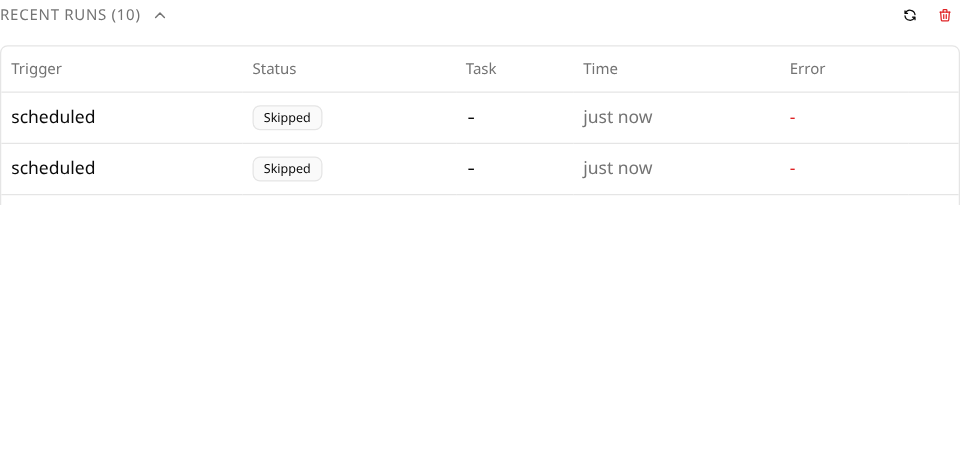
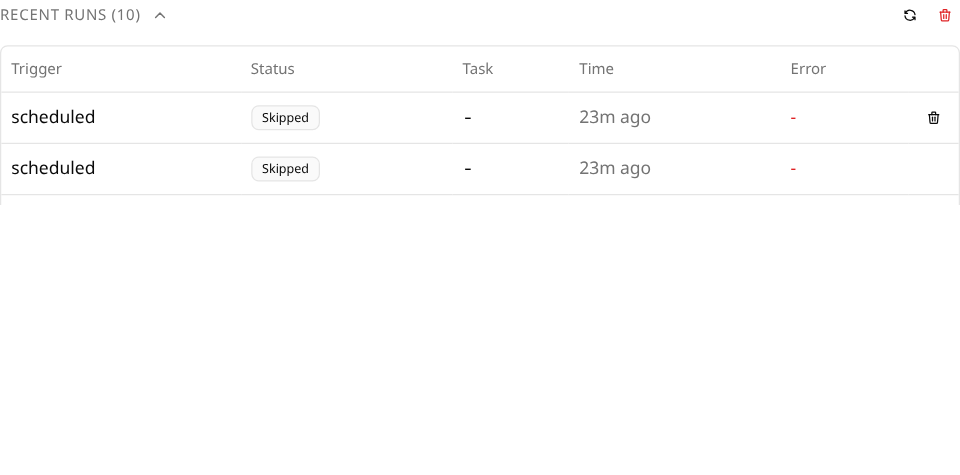
chore: replace PR screenshots — fix hover state, better collapsed crop

diff --git a/.pr-screenshots/pr-body.md b/.pr-screenshots/pr-body.md
@@ -1,0 +1,57 @@
+Failed automation runs were accumulating and blocking the scheduler's `max_concurrent_runs` cap; this adds per-row and bulk deletion so the history can be cleared without touching the automation itself.
+
+## Important Changes
+
+- **Backend:** two new WS actions `automation.run.delete` / `automation.runs.delete_all`; for runs with a `task_id` the service routes through `task.Service.DeleteTask` first (idempotent against `ErrTaskNotFound` so stale/orphaned rows are always clearable). A `TaskDeleter` interface is injected via `SetTaskDeleter` in `backendapp` — no import cycle.
+- **Frontend:** per-row trash button (`opacity-0`, revealed on row hover, `stopPropagation` so it doesn't navigate to the task); delete-all button in the section header wrapped in an `AlertDialog` confirmation showing the run count. Optimistic store updates; `toast.error` on failure with list revert.
+- **E2E seed endpoints:** `POST /api/v1/e2e/automations` and `POST /api/v1/e2e/automation-runs` under the existing `KANDEV_MOCK_AGENT`-gated `/api/v1/e2e` group — HTTP so tests work on Node 20.
+
+## Validation
+
+```
+# Backend unit + service tests (includes regression guard)
+cd apps/backend && go test ./internal/automation/... -v
+
+# Backend lint (changed packages only)
+golangci-lint run ./internal/automation/... ./internal/backendapp/... ./pkg/websocket/...
+
+# Frontend typecheck + lint
+cd apps && pnpm --filter @kandev/web typecheck
+pnpm --filter @kandev/web lint
+
+# Playwright E2E (expand → delete one → confirm delete-all → empty state)
+cd apps/web && KANDEV_E2E_MOCK=true pnpm e2e --project=chromium -g "delete individual and all runs"
+```
+
+`TestDeleteAllRuns_AutomationSurvives` issues real `DELETE FROM tasks` SQL against the shared in-memory DB to verify no SQL trigger or `ON DELETE CASCADE` regression can delete the parent automation. Event-handler side effects are not covered (no orchestrator in that test).
+
+Pre-existing flake: `TestProcessRunnerCapturesOutput` in `internal/agentctl/server/process` fails independently of this change (confirmed stash-and-rerun).
+
+## Screenshots
+
+**Collapsed** — header shows only the refresh icon (old behaviour):
+
+![collapsed](.pr-screenshots/1-collapsed.png)
+
+**Expanded** — refresh + red trash icon in header; 6th column added for per-row delete:
+
+![expanded](.pr-screenshots/2-expanded.png)
+
+**Row hover** — per-row trash button becomes visible on hover:
+
+![row hover](.pr-screenshots/3-row-hover.png)
+
+**Delete-all confirmation dialog** — shows run count, requires explicit confirm:
+
+![dialog](.pr-screenshots/4-confirm-dialog.png)
+
+## Possible Improvements
+
+Low risk for non-running runs; deleting a `task_created` run stops the associated task — acceptable given the feature intent is cleanup of stuck/failed history.
+
+## Checklist
+
+- [ ] I have performed a self-review of my code.
+- [ ] I have manually tested my changes and they work as expected.
+- [ ] My changes have tests that cover the new functionality and edge cases.
+- [ ] If my change touches UI files (`apps/web/`), I have added or updated Playwright e2e tests in `apps/web/e2e/` and verified them with `make test-e2e`.
